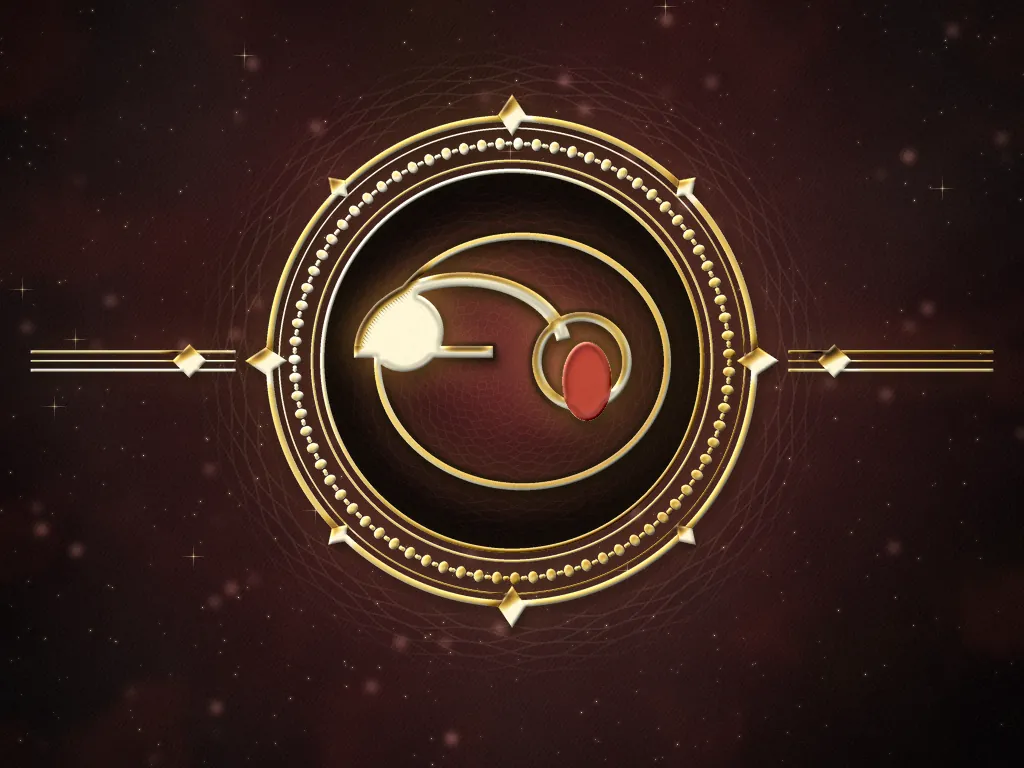
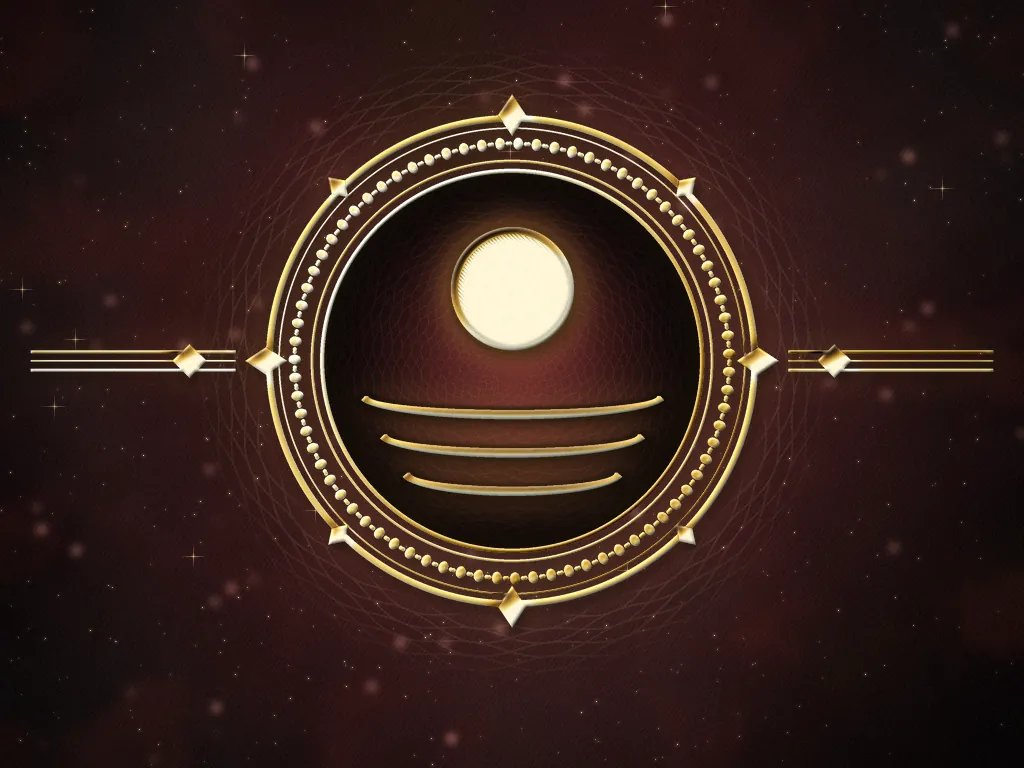
fix(images): drop formline ovoids from the Tlingit-Haida pantheon plate
The emblem imitated Northwest Coast formline design. It now shows the
sun over the sea in plain marks, matching the other Tlingit and Haida
plates.

Claude-Session: https://claude.ai/code/session_01R21E45iM4wKY72NZqyKjS1

Changed region(s): [[0.3125, 0.2812, 0.6562, 0.6562]]

diff --git a/scripts/generate_heroes_and_pantheons.py b/scripts/generate_heroes_and_pantheons.py
@@ -299,16 +299,13 @@ def draw_pantheon_motif(draw, cx, m_cy, p, accent, gold):
         draw.polygon([(cx, m_cy - 95), (cx - 15, m_cy - 80), (cx + 15, m_cy - 80)], fill=gold)
 
     elif p["motif"] == "tlingit_raven":
-        # Northwest Coast Formline Raven & Sun in the Box
-        draw.ellipse([cx - 75, m_cy - 65, cx + 75, m_cy + 65], outline=gold, width=3)
-        # Raven's curved beak holding the sun
-        draw.arc([cx - 85, m_cy - 45, cx + 25, m_cy + 35], start=180, end=350, fill=(245, 230, 180), width=6)
-        draw.line([(cx - 85, m_cy - 5), (cx - 15, m_cy - 5)], fill=gold, width=5)
-        # Daylight radiant sphere in the beak
-        draw.ellipse([cx - 80, m_cy - 35, cx - 40, m_cy + 5], fill=(245, 230, 180))
-        # Formline ovoids
-        draw.ellipse([cx + 5, m_cy - 25, cx + 55, m_cy + 25], outline=gold, width=4)
-        draw.ellipse([cx + 20, m_cy - 10, cx + 45, cy + 10], fill=accent)
+        # Daylight released over the coastal sea (plain marks; no formline ovoids,
+        # crest figures or other Northwest Coast design conventions)
+        pale = (245, 230, 180)
+        draw.ellipse([cx - 32, m_cy - 70, cx + 32, m_cy - 6], fill=pale, outline=gold, width=3)
+        for k, half in enumerate((80, 70, 58)):
+            y = m_cy + 18 + k * 20
+            draw.arc([cx - half, y - 12, cx + half, y + 12], start=10, end=170, fill=gold, width=4)
 
     elif p["motif"] == "yoruba_chain":
         # The chain let down from the sky, the snail shell of earth, and the five-toed hen
